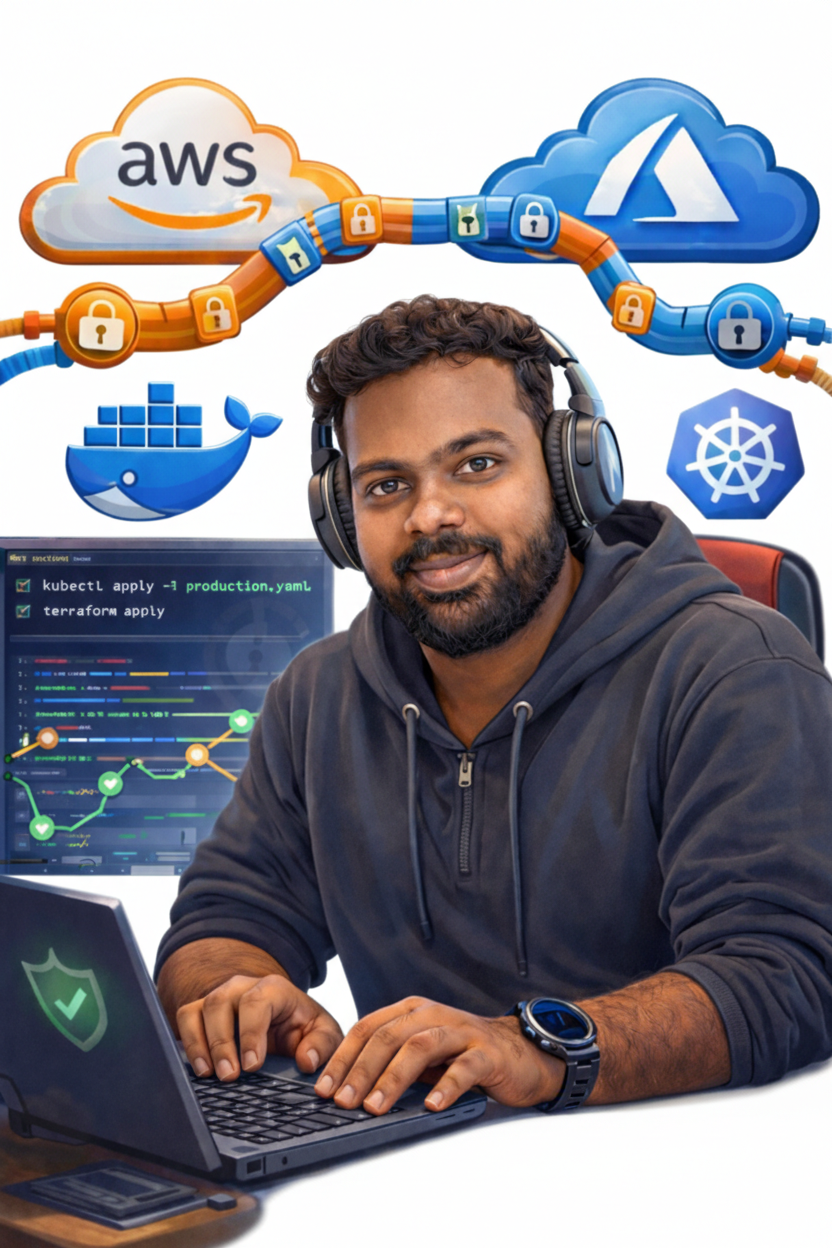
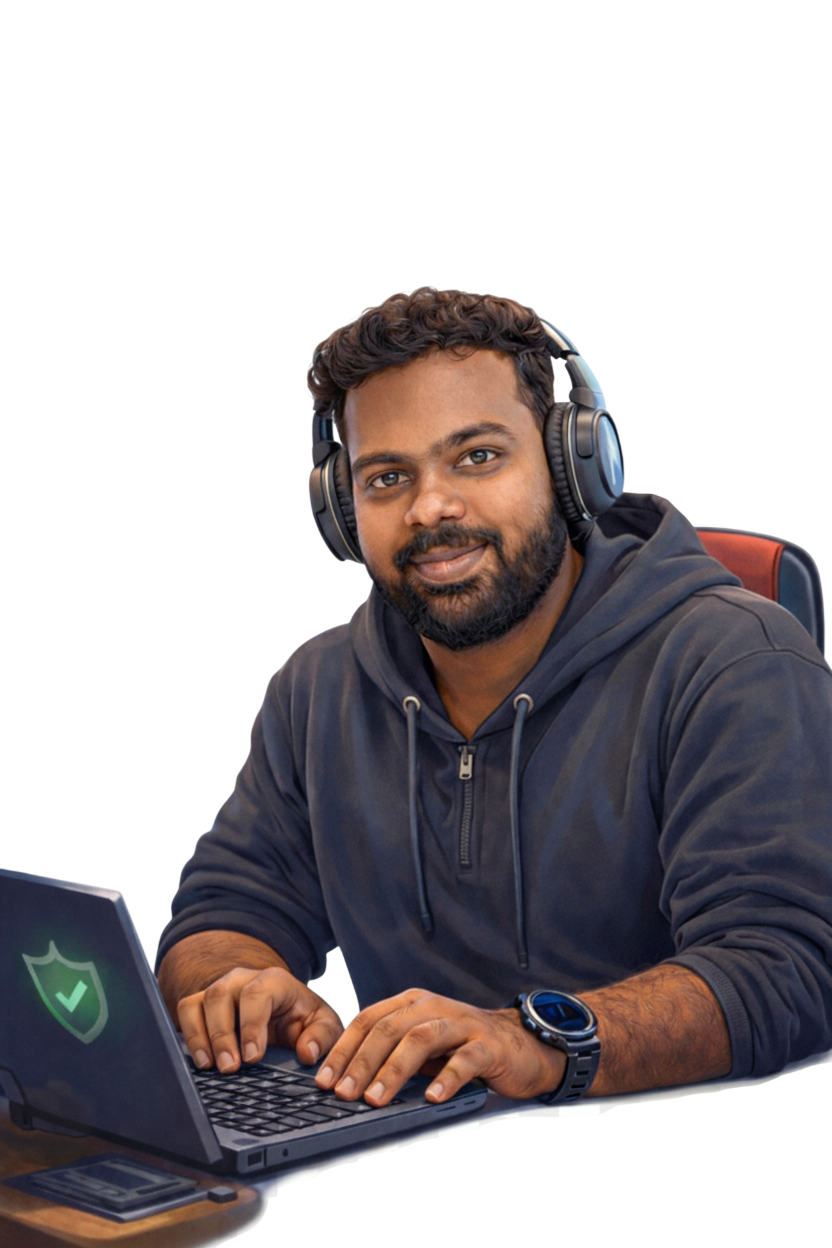
Refactor code structure for improved readability and maintainability

diff --git a/src/pages/Index.tsx b/src/pages/Index.tsx
@@ -2,7 +2,8 @@ import { Link } from "react-router-dom";
 import { motion } from "framer-motion";
 import { ArrowRight, Shield, Cloud, Container } from "lucide-react";
 import Layout from "@/components/Layout";
-import heroImage from "@/assets/sabari-photo.png";
+import heroImage from "@/assets/sabari-about-photo.png";
+// import heroImage from "@/assets/newbigimage.png";
 import Tilt from "react-parallax-tilt";
 
 const FloatingIcon = ({ children, className }: { children: React.ReactNode; className?: string }) => (
@@ -63,11 +64,13 @@ const Index = () => {
             <div className="relative w-72 h-72 sm:w-80 sm:h-80 lg:w-96 lg:h-96">
               <div className="absolute inset-0 rounded-full bg-gradient-to-br from-primary/20 to-secondary/20 blur-3xl animate-pulse-glow" />
               <Tilt>
-                <img
-                  src={heroImage}
-                  alt="Sabari - DevSecOps Engineer"
-                  className="relative z-10 w-full h-full object-cover rounded-3xl border-2 border-border/30 glow-primary"
-                />
+                <div className="rounded-2xl bg-[radial-gradient(circle_at_center,hsla(var(--glow-primary)/0.25)_0%,transparent_55%),radial-gradient(circle_at_center,hsla(var(--glow-primary)/0%)_0%,transparent_75%),radial-gradient(circle_at_center,hsla(var(--glow-primary)/0%)_0%,transparent_95%)]">
+                  <img
+                    src={heroImage}
+                    alt="Sabari - DevSecOps Engineer"
+                    className="relative z-10 w-76 h-85 object-cover rounded-2xl border border-none"
+                  />
+                </div>
               </Tilt>
               {/* Floating icons */}
               <FloatingIcon className="animate-float -top-4 -right-4 z-20">

diff --git a/src/pages/About.tsx b/src/pages/About.tsx
@@ -2,7 +2,8 @@ import { motion } from "framer-motion";
 import { Download, Award, Target, Zap } from "lucide-react";
 import Layout from "@/components/Layout";
 import SectionHeading from "@/components/SectionHeading";
-import heroImage from "@/assets/sabari-photo.png";
+// import heroImage from "@/assets/sabari-about-photo.png";
+import heroImage from "@/assets/photo_shop.png";
 import Tilt from "react-parallax-tilt";
 
 const strengths = [
@@ -33,11 +34,18 @@ const About = () => {
             className="flex justify-center"
           >
             <Tilt>
-              <img
+              {/* <img
                 src={heroImage}
                 alt="Sabari"
                 className="w-72 h-80 object-cover rounded-2xl border border-border/30 glow-primary"
-              />
+              /> */}
+              <div className="p-16 rounded-2xl bg-[radial-gradient(circle_at_center,hsla(var(--glow-primary)/0.25)_0%,transparent_55%),radial-gradient(circle_at_center,hsla(var(--glow-primary)/0%)_0%,transparent_75%),radial-gradient(circle_at_center,hsla(var(--glow-primary)/0%)_0%,transparent_95%)]">
+                <img
+                  src={heroImage}
+                  alt="Sabari"
+                  className="w-72 h-80 object-cover rounded-2xl border border-none"
+                />
+              </div>
             </Tilt>
           </motion.div>
 
